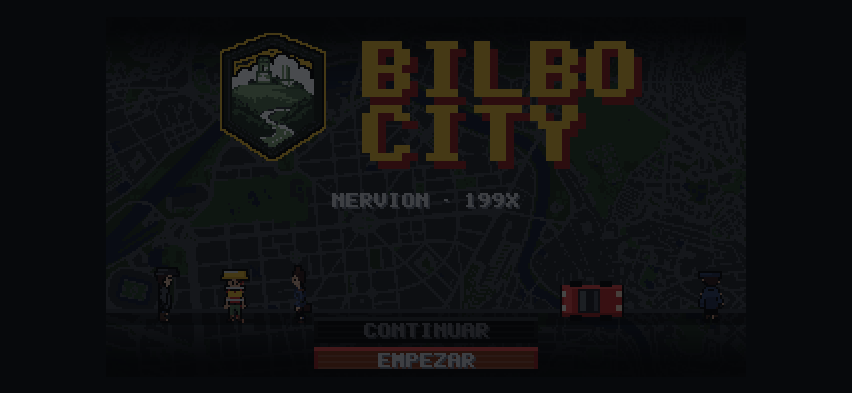
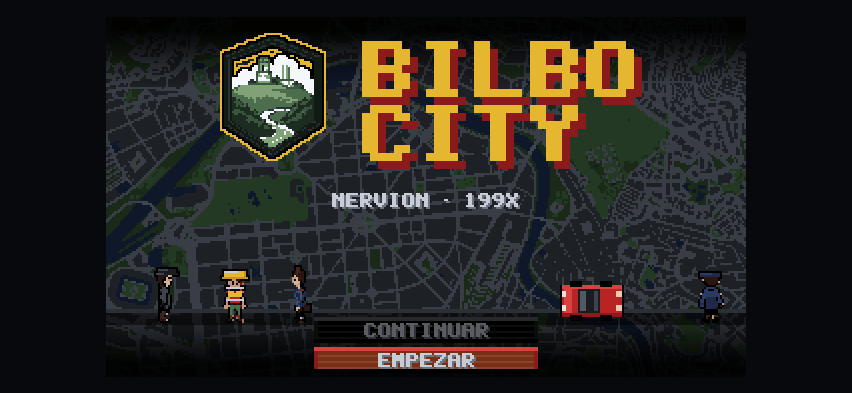
Bilbo City: la pantalla principal se veía casi negra
El lienzo de la portada arrastraba un `opacity:.28` en el CSS. Esa regla venía
de la portada vieja, cuando `#tcv` era solo el plano apagado detrás de un `<h1>`
del DOM. Al pasar la portada entera al lienzo —emblema, rótulo, vecinos y
botones— el .28 se quedó puesto y apagaba la pantalla principal entera.

El plano ya se oscurece dentro de `pintarPortada()`, que es el único sitio donde
se puede oscurecer solo el plano y no también el rótulo.

`./verificar.sh` verde.

Claude-Session: https://claude.ai/code/session_01TRzVFH25BrVEwpaMSPAuky

diff --git a/bilbo-city/referencia/bilbo-city.html b/bilbo-city/referencia/bilbo-city.html
@@ -154,7 +154,6 @@ img.pix{image-rendering:pixelated;display:block;}
 #titulo .b{position:absolute;pointer-events:auto;background:transparent;border:none;}
 #titulo{position:absolute;inset:0;background:#07090c;display:flex;flex-direction:column;align-items:center;
  justify-content:center;gap:4px;pointer-events:auto;z-index:9;overflow:hidden;}
-#tcv{position:absolute;inset:0;width:100%;height:100%;opacity:.28;image-rendering:pixelated;}
 #titulo .z{position:relative;text-align:center;}
 #titulo h1{font-size:min(17vw,76px);margin:0;letter-spacing:7px;line-height:.88;
  background:linear-gradient(180deg,#f7edc0,#e8c547 45%,#b7451f);-webkit-background-clip:text;background-clip:text;

diff --git a/bilbo-city/CLAUDE.md b/bilbo-city/CLAUDE.md
@@ -399,13 +399,19 @@ Los botones siguen siendo `<div>`: la lógica no cambia, solo se colocan encima 
 dibujado y se quedan transparentes. Así el clic sigue funcionando igual en el navegador,
 en la batería y en `mando.js`.
 
-Dos trampas del arranque, las dos por preguntar lo que no era:
+Tres trampas del arranque:
 
 - **`map` está preasignado**, así que `map.length` dice que sí desde el primer paso de la
   carga. El fondo se cacheaba vacío y la portada salía negra. Hay una bandera,
   `ciudadLista`, y `cargarCiudad` tira la caché del mapa.
 - **A una casilla por píxel el recorte cae entero sobre manzanas**: 320 casillas son
   kilómetro y medio de edificios y sale una plancha oscura. Se coge el doble de ciudad.
+- **El lienzo se quedó con un `opacity:.28` de cuando solo era el fondo.** Esa regla venía
+  de la portada vieja, cuando `#tcv` era el plano apagado **detrás** de un `<h1>` del DOM.
+  Al pasar la portada entera al lienzo —emblema, rótulo, vecinos y botones— el `.28` se
+  quedó puesto y apagaba la pantalla principal entera: se veía casi negra. El plano ya se
+  oscurece dentro de `pintarPortada()`, que es el único sitio donde se puede oscurecer
+  **solo el plano**. Si algo de la portada se ve muerto, mira primero el CSS de `#tcv`.
 
 ## El mando
 
